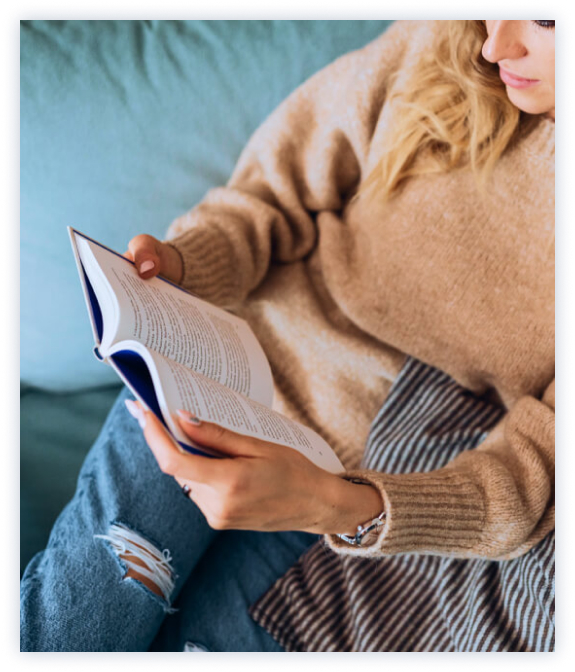
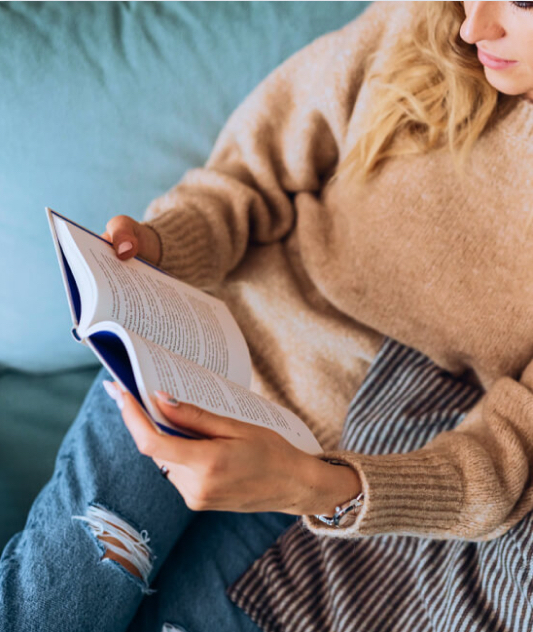
add learn section

diff --git a/style.css b/style.css
@@ -564,6 +564,7 @@ legend {
   line-height: 77px;
   color: #1b3764;
 }
+
 .contacts_author {
   display: flex;
   flex-wrap: wrap;
@@ -572,11 +573,13 @@ legend {
   padding: 15px 20px;
   background-color: #1b3764;
 }
+
 .contacts_info {
   display: flex;
   flex-direction: column;
   padding-top: 25px;
 }
+
 .name_author {
   font-family: "Cardo";
   font-style: normal;
@@ -586,6 +589,7 @@ legend {
   color: #ffca42;
   margin-bottom: 10px;
 }
+
 .mail_author {
   font-family: "Inter";
   font-style: normal;
@@ -594,6 +598,7 @@ legend {
   line-height: 28px;
   color: #b4c7e7;
 }
+
 .phone_author {
   font-family: "Inter";
   font-style: normal;
@@ -602,6 +607,7 @@ legend {
   line-height: 28px;
   color: #b4c7e7;
 }
+
 /* trusted style start */
 .trusted h3 {
   font-family: "Cardo";
@@ -617,6 +623,7 @@ legend {
   grid-row: 1/2;
   position: relative;
 }
+
 .trusted h3::after {
   content: "";
   display: block;
@@ -627,12 +634,14 @@ legend {
   left: 48%;
   top: 200px;
 }
+
 .trusted {
   display: grid;
   grid-template-columns: repeat(4, 1fr);
   grid-template-rows: 270px auto;
   padding: 70px;
 }
+
 .trusted_box {
   display: flex;
   flex-direction: column;
@@ -640,9 +649,11 @@ legend {
   max-width: 315px;
   margin-bottom: 130px;
 }
+
 .trusted_box img {
   margin-bottom: 15px;
 }
+
 .name_publication {
   font-family: "Cardo";
   font-style: normal;
@@ -652,6 +663,7 @@ legend {
   color: #1b3764;
   margin-bottom: 19px;
 }
+
 .trusted_box .text {
   font-family: "Inter";
   font-style: normal;
@@ -660,6 +672,7 @@ legend {
   line-height: 28px;
   color: #969aa0;
 }
+
 /* get book style start */
 .get_book {
   display: grid;
@@ -668,6 +681,7 @@ legend {
   padding: 70px;
   gap: 130px;
 }
+
 .get_book_text h3 {
   font-family: "Cardo";
   font-style: normal;
@@ -679,6 +693,7 @@ legend {
   margin-bottom: 60px;
   position: relative;
 }
+
 .get_book_text h3::after {
   content: "";
   display: block;
@@ -688,6 +703,7 @@ legend {
   position: absolute;
   top: 145px;
 }
+
 .get_book_text .text {
   font-family: "Inter";
   font-style: normal;
@@ -698,6 +714,7 @@ legend {
   max-width: 540px;
   margin-bottom: 40px;
 }
+
 .get_book_order {
   font-family: "Cardo";
   font-style: normal;
@@ -708,18 +725,24 @@ legend {
   color: #ffffff;
   padding: 19px 55px;
 }
+
 /* learn style start */
 .learn {
   display: grid;
-  grid-template-columns: repeat(4, 1fr);
-  grid-template-rows: 280px 1fr 1fr;
-  gap: 110px;
-  padding: 0px 70px;
+  grid-template-columns: repeat(2, 1fr);
+  grid-template-rows: 260px 1fr 180px;
+  column-gap: 30px;
+  row-gap: 30px;
 }
+
 .learn_img {
-  grid-column: 3/5;
+  grid-column: 2/3;
   grid-row: 2/4;
+  padding-left: 60px;
+  position: relative;
+  margin-bottom: 180px;
 }
+
 .learn h3 {
   font-family: "Cardo";
   font-style: normal;
@@ -729,11 +752,11 @@ legend {
   color: #1b3764;
   text-align: center;
   padding-top: 126px;
-  margin-bottom: 76px;
   position: relative;
-  grid-column: 1/5;
+  grid-column: 1/3;
   grid-row: 1/2;
 }
+
 .learn h3::after {
   content: "";
   display: block;
@@ -744,6 +767,106 @@ legend {
   left: 48%;
   top: 200px;
 }
+
+.learn_img::after {
+  content: "";
+  display: inline-block;
+  border: 10px solid #ffca42;
+  width: 545px;
+  height: 640px;
+  position: absolute;
+  top: 20px;
+  left: 85px;
+  z-index: -1;
+}
+
+.learn_text {
+  font-family: 'Cardo';
+  font-style: normal;
+  font-weight: 400;
+  font-size: 24px;
+  line-height: 34px;
+  color: #1b3764;
+}
+
+.learn_box {
+  background-color: #f4f8ff;
+  max-width: 300px;
+  max-height: 270px;
+  padding: 100px 40px 60px 30px;
+  position: relative;
+}
+
+.learn_box:nth-child(1):before {
+  content: "";
+  display: block;
+  text-align: center;
+  width: 50px;
+  height: 50px;
+  background-color: #ffca42;
+  border-radius: 100%;
+  background-image: url(/img/01.svg);
+  background-repeat: no-repeat;
+  background-position: center;
+  position: absolute;
+  top: 30px;
+}
+
+.learn_box:nth-child(2):before {
+  content: "";
+  display: block;
+  text-align: center;
+  width: 50px;
+  height: 50px;
+  background-color: #ffca42;
+  border-radius: 100%;
+  background-image: url(/img/02.svg);
+  background-repeat: no-repeat;
+  background-position: center;
+  position: absolute;
+  top: 30px;
+}
+
+.learn_box:nth-child(3):before {
+  content: "";
+  display: block;
+  text-align: center;
+  width: 50px;
+  height: 50px;
+  background-color: #ffca42;
+  border-radius: 100%;
+  background-image: url(/img/03.svg);
+  background-repeat: no-repeat;
+  background-position: center;
+  position: absolute;
+  top: 30px;
+}
+
+.learn_box:nth-child(4):before {
+  content: "";
+  display: block;
+  text-align: center;
+  width: 50px;
+  height: 50px;
+  background-color: #ffca42;
+  border-radius: 100%;
+  background-image: url(/img/04.svg);
+  background-repeat: no-repeat;
+  background-position: center;
+  position: absolute;
+  top: 30px;
+}
+
+
+.learn_all_box {
+  margin-top: 50px;
+  row-gap: 30px;
+  display: flex;
+  flex-wrap: wrap;
+  justify-content: space-evenly;
+}
+
+
 /* social icon start */
 .header_social_fb {
   background-image: url(/img/logo_facebook.svg);

diff --git a/index.html b/index.html
@@ -194,17 +194,19 @@
             </section>
             <section class="learn">
                 <h3>What Will You Learn?</h3>
-                <div class="first">
-                    <p class="learn_text">Use HDFS & Map Reduce for storing & analyzing data at scale.</p>
-                </div>
-                <div class="second">
-                    <p class="learn_text">Consume streaming data using Spark Streaming, Flink, and Storm.</p>
-                </div>
-                <div class="third">
-                    <p class="learn_text">Choose an appropriate data storage technology for your application</p>
-                </div>
-                <div class="fourth">
-                    <p class="learn_text">Analyze non-relational data using HBase, Cassandra, and MongoDB.</p>
+                <div class="learn_all_box">
+                    <div class="learn_box">
+                        <p class="learn_text">Use HDFS & Map Reduce for storing & analyzing data at scale.</p>
+                    </div>
+                    <div class="learn_box">
+                        <p class="learn_text">Consume streaming data using Spark Streaming, Flink, and Storm.</p>
+                    </div>
+                    <div class="learn_box">
+                        <p class="learn_text">Choose an appropriate data storage technology for your application</p>
+                    </div>
+                    <div class="learn_box">
+                        <p class="learn_text">Analyze non-relational data using HBase, Cassandra, and MongoDB.</p>
+                    </div>
                 </div>
                 <div class="learn_img">
                     <img class="img_learn" src="/img/woman_with_book.jpg" width="535px" height="632px"
